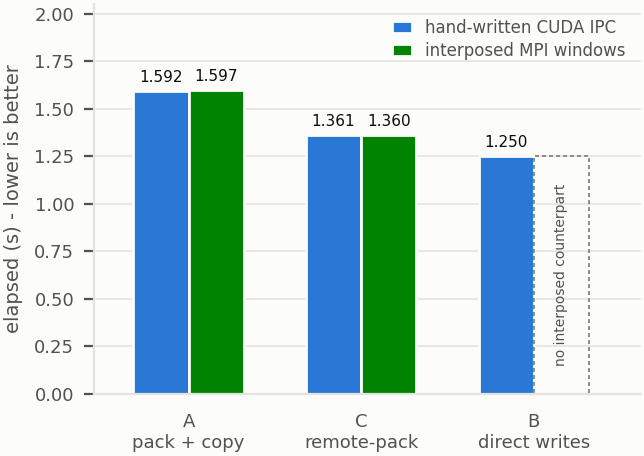
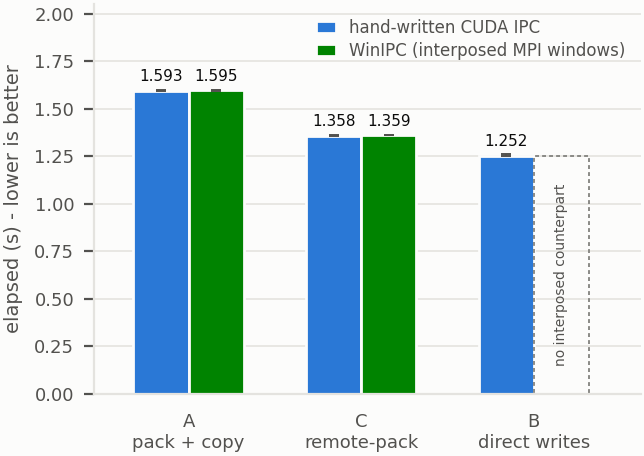
REBRAND: mpiwrap is now WinIPC
Renames the project/mechanism in everything a reader sees: prose, README
structure diagrams, source comments, the interposer's log prefix, and the
figures (lulesh_variants_sxm and lulesh_modes_sxm regenerated; the variant
axis now reads winipc/winipc_rp, and the modes legend names WinIPC, which
it previously did not name at all).

Filenames and build identifiers are deliberately NOT renamed yet. Slurm
freezes a job's script text at submit time, and the 8 queued jobs
(stopsync, transpose, lulesh_lifecycle, 5x lulesh_verify) reference by
name: ~/mpiwrap, scripts/build_mpiwrap.sh, $MPIWRAP_LIB, the mpiwrap /
mpiwrap_rp make targets and the lulesh_mpiwrap* binaries. Renaming any of
them breaks jobs in flight, and renaming IPC_VIA_MPIWRAP would be worse
than a break -- comm_backend.h falls through to comm_ipc.h, so a missed
site would silently build the WinIPC variant as plain ipc and land a wrong
number in a verification run. Left frozen: those, plus libmpiwrap.so,
mpiwrap_ipc.cc, comm_mpiwrap.h, and the mpiwrap/mpiwrap_rp keys in the
results CSVs. Both READMEs carry a note mapping old spelling to new.

The one behavioural change: MPIWRAP_DISABLE_FABRIC becomes
WINIPC_DISABLE_FABRIC, with the old name kept as an alias and run_nvl72.sh
setting both. An unrecognised name here fails silently -- the run keeps the
fabric path on and the fabric-vs-no-fabric comparison is vacuous rather
than visibly broken -- so the alias stays until the NVL72 reruns are done.
[…]

diff --git a/plots/make_lulesh_plots.py b/plots/make_lulesh_plots.py
@@ -14,7 +14,7 @@ rest are carried for provenance and for the paper's paired analysis.
 `rep` indexes the JOB SUBMISSION, not an in-process loop: run_lulesh_verify
 runs each variant once per job, so E1's five submissions give five independent
 runs per variant. `jobid` is carried alongside it so the paper's matched-pair
-residual (mpiwrap - ipc within a job) can be formed explicitly rather than by
+residual (WinIPC - ipc within a job) can be formed explicitly rather than by
 trusting that rep maps 1:1 onto a job -- the builder's --check-pairing asserts
 that it does.
 
@@ -67,6 +67,19 @@ CATEGORY = {  # variant -> plot category
     "ipc": "A", "mpiwrap": "A", "nvshmem": "A",
     "gpumpi": "T", "staged": "T", "shmwin": "W",
 }
+
+# variant key -> label drawn on the figure. The interposed-window backend was
+# renamed mpiwrap -> WinIPC, but the CSV keys, the make targets and the binary
+# names are still `mpiwrap*`: renaming those would break the queued Slurm jobs,
+# whose script text Slurm froze at submit time. So the rename lives here, at the
+# display edge, and the recorded data keeps its original keys. Drop this map
+# once the build-side identifiers are renamed too.
+DISPLAY = {"mpiwrap": "winipc", "mpiwrap_rp": "winipc_rp"}
+
+
+def label(v):
+    return DISPLAY.get(v, v)
+
 
 def load(path=CSV):
     rows = []
@@ -137,7 +150,7 @@ else:
 
 # =============== chart 1: all nine variants ===============
 fig, ax = plt.subplots(figsize=(COL_W, 3.0))
-names   = [v[0] for v in variants][::-1]
+names   = [label(v[0]) for v in variants][::-1]
 times   = [v[2] for v in variants][::-1]
 gains   = [v[3] for v in variants][::-1]
 colors  = [MODE_COLOR[v[1]] for v in variants][::-1]
@@ -169,11 +182,11 @@ fig.tight_layout()
 fig.savefig("plots/lulesh_variants_sxm.png", dpi=200)
 save(fig, "plots/lulesh_variants_sxm.pdf")
 
-# =============== chart 2: the three send modes, ipc vs mpiwrap ===============
+# =============== chart 2: the three send modes, ipc vs WinIPC ===============
 fig, ax = plt.subplots(figsize=(COL_W, 2.45))
 modes      = ["A\npack + copy", "C\nremote-pack", "B\ndirect writes"]
 IPC_V  = ["ipc", "ipc_rp", "direct"]
-WRAP_V = ["mpiwrap", "mpiwrap_rp", None]
+WIN_V = ["mpiwrap", "mpiwrap_rp", None]
 
 
 def bar_value(v):
@@ -192,7 +205,7 @@ def err(v):
 
 
 ipc_times  = [bar_value(v) for v in IPC_V]
-wrap_times = [bar_value(v) for v in WRAP_V[:2]]
+wrap_times = [bar_value(v) for v in WIN_V[:2]]
 
 x = range(3)
 w = 0.32
@@ -205,8 +218,8 @@ for i, v in enumerate(IPC_V):
         ax.errorbar(i - w/2, ipc_times[i], yerr=e, fmt="none", **EBAR)
 b2 = ax.bar([i + w/2 for i in x[:2]], wrap_times, width=w, color=GREEN,
             edgecolor=SURFACE, linewidth=1.0,
-            label="interposed MPI windows")
-for i, v in enumerate(WRAP_V[:2]):
+            label="WinIPC (interposed MPI windows)")
+for i, v in enumerate(WIN_V[:2]):
     e = err(v)
     if e:
         ax.errorbar(i + w/2, wrap_times[i], yerr=e, fmt="none", **EBAR)

diff --git a/mpi-intercept/mpiwrap_ipc.cc b/mpi-intercept/mpiwrap_ipc.cc
@@ -1,11 +1,17 @@
-// mpiwrap_ipc.cc - MPI interception for CUDA IPC
+// mpiwrap_ipc.cc - WinIPC: MPI interception for CUDA IPC
+//
+// (Formerly "mpiwrap". This file name, the built .so and the CMake target keep
+// the old spelling for now -- queued Slurm jobs reference them by name.)
 //
 // Intercepts MPI_Win_create/allocate/shared_query/free to add CUDA IPC support.
 // Use with: LD_PRELOAD=./libmpiwrap.so mpirun ...
 //
-// MPIWRAP_DISABLE_FABRIC=1 forces cross-node windows onto the per-peer
+// WINIPC_DISABLE_FABRIC=1 forces cross-node windows onto the per-peer
 // hybrid-MPI fallback even on fabric-capable (NVL72-class) hardware --
 // useful for an apples-to-apples fabric-vs-no-fabric comparison.
+// MPIWRAP_DISABLE_FABRIC is still honoured as a deprecated alias, so an
+// already-submitted job or a collaborator's script does not silently lose the
+// setting and run WITH fabric when it meant to run without.
 
 #include <cstdio>
 #include <cstdlib>
@@ -15,7 +21,7 @@
 #include <cuda_runtime_api.h>
 #include <cuda.h>
 
-#define LOG(fmt, ...) fprintf(stderr, "[mpiwrap] " fmt "\n", ##__VA_ARGS__)
+#define LOG(fmt, ...) fprintf(stderr, "[winipc] " fmt "\n", ##__VA_ARGS__)
 
 // ============================================================================
 // WINDOW METADATA
@@ -81,7 +87,10 @@ static bool ranks_span_nodes(MPI_Comm comm) {
 static bool fabric_supported() {
     // Lets a benchmark force the per-peer hybrid-MPI path even on hardware
     // that supports fabric handles, e.g. to compare against the fabric path.
-    const char* disable = getenv("MPIWRAP_DISABLE_FABRIC");
+    // MPIWRAP_DISABLE_FABRIC is the pre-rebrand name, still honoured: dropping
+    // it would turn a stale script into a silent fabric-ON run.
+    const char* disable = getenv("WINIPC_DISABLE_FABRIC");
+    if (!disable) disable = getenv("MPIWRAP_DISABLE_FABRIC");
     if (disable && disable[0] == '1') return false;
     if (cuInit(0) != CUDA_SUCCESS) return false;
     int curdev = 0;

diff --git a/LULESH/cuda/src/comm/comm_mpiwrap.h b/LULESH/cuda/src/comm/comm_mpiwrap.h
@@ -1,4 +1,6 @@
-// comm_mpiwrap.h -- CUDA IPC through the mpiwrap interceptor.
+// comm_mpiwrap.h -- CUDA IPC through the WinIPC interceptor (was: mpiwrap;
+// the file name, the .so and the IPC_VIA_MPIWRAP macro keep the old spelling
+// because queued Slurm jobs reference them).
 // The application only speaks portable MPI window code: MPI_Win_allocate
 // (info key cuda_ipc=1) for the device recv buffer + MPI_Win_shared_query
 // per peer.  Vanilla MPI cannot shared_query such a window; libmpiwrap.so
@@ -58,7 +60,7 @@ static inline void commAllocRecv(Domain* d, Index_t comBufSize)
       including cross-node ones, is served by the window -- without it a
       clean run leaves no record of which transport was measured. */
    if (myRank == 0) {
-      printf("mpiwrap: %d of %d peers not IPC-reachable, using MPI "
+      printf("winipc: %d of %d peers not IPC-reachable, using MPI "
              "send/recv fallback for them\n", nFallback,
              (int)d->m_numRanks - 1) ;
    }

diff --git a/scripts/build_lulesh_variance_csv.py b/scripts/build_lulesh_variance_csv.py
@@ -13,7 +13,7 @@ init and window construction. reps are numbered by ascending jobid, so rep 1 is
 the lowest-numbered job.
 
 WHY jobid AND node ARE COLUMNS. The paper forms the matched-pair residual as
-mpiwrap - ipc *within a job*, so job and node effects cancel. Because rep maps
+WinIPC - ipc *within a job*, so job and node effects cancel. Because rep maps
 1:1 onto a submission, pairing by rep is equivalent to pairing within a job --
 but that equivalence should be checkable rather than trusted, so both the jobid
 and the node are carried per row. Pair on jobid if you want to be explicit;
@@ -138,7 +138,7 @@ def report_pairs(rows):
 
     This is the quantity the paper reports. Taking the difference inside one
     job cancels whatever that job saw -- node, co-tenants, thermal state --
-    which two independent marginals (mean mpiwrap vs mean ipc) would not.
+    which two independent marginals (mean WinIPC vs mean ipc) would not.
     """
     idx = {}
     for r in rows:

diff --git a/LULESH/cuda/src/comm/comm_backend.h b/LULESH/cuda/src/comm/comm_backend.h
@@ -41,7 +41,7 @@ extern bool g_commActive ;
    window-based backend can provide. A backend that sets them must ensure
    they sum to no more than its share of setup; a backend that leaves them
    at zero simply reports no breakdown, and only the uniform total is
-   comparable across backends. Currently only comm_mpiwrap.h fills them in. */
+   comparable across backends. Currently only WinIPC (comm_mpiwrap.h) does. */
 extern double g_phaseCommSetupMs ;   /* all backends: whole commAllocRecv */
 extern double g_phaseCommFreeMs ;    /* all backends: whole commTeardown  */
 extern double g_phaseWinAllocMs ;    /* window construction only, or 0    */

diff --git a/LULESH/cuda/src/comm/comm_ipc_packed.h b/LULESH/cuda/src/comm/comm_ipc_packed.h
@@ -4,7 +4,7 @@
 // comm_ipc.h (Mode A/C) and comm_direct.h (Mode B, for the MonoQ path).
 //
 // WHY THE SPLIT EXISTS -- do not merge this back.
-// comm_mpiwrap.h establishes the same d_peerRecv[] mapping through
+// WinIPC (comm_mpiwrap.h) establishes the same d_peerRecv[] mapping through
 // MPI_Win_allocate + MPI_Win_shared_query and never calls these functions.
 // While they lived in comm_ipc_common.h, which comm_mpiwrap.h includes for
 // the shared token/steady-state machinery, they were still textually present

diff --git a/LULESH/cuda/src/lulesh.h b/LULESH/cuda/src/lulesh.h
@@ -306,7 +306,7 @@ typedef Real_t& (Domain::* Domain_member )(Index_t) ;
 #define CACHE_ALIGN_REAL(n) \
    (((n) + (CACHE_COHERENCE_PAD_REAL - 1)) & ~(CACHE_COHERENCE_PAD_REAL-1))
 
-// One halo-exchange backend (staged / gpumpi / shmwin / ipc / mpiwrap /
+// One halo-exchange backend (staged / gpumpi / shmwin / ipc / WinIPC /
 // nvshmem) is selected at compile time; see comm/comm_backend.h.
 #include "comm/comm_backend.h"
 

diff --git a/LULESH/cuda/src/comm/comm_ipc_common.h b/LULESH/cuda/src/comm/comm_ipc_common.h
@@ -1,5 +1,5 @@
 // comm_ipc_common.h -- transfer/unpack machinery shared by the two CUDA-IPC
-// backends (comm_ipc.h and comm_mpiwrap.h).  Both end up with d_peerRecv[r]
+// backends (comm_ipc.h and WinIPC's comm_mpiwrap.h).  Both end up with d_peerRecv[r]
 // = rank r's d_commDataRecv mapped into this process; they differ only in
 // how the mapping is established.
 //

diff --git a/LULESH/cuda/README.md b/LULESH/cuda/README.md
@@ -7,6 +7,14 @@ in one header under `src/comm/`. One binary per variant, all built from
 `src/Makefile` (`make all`), all reproducing the staged baseline's reported
 Final Origin Energy on the full sedov run.
 
+> **Naming.** The interposed-window backend is now called **WinIPC** (formerly
+> *mpiwrap*). Its build identifiers are deliberately not renamed yet — the make
+> targets are still `mpiwrap`/`mpiwrap_rp`, the binaries `lulesh_mpiwrap*`, the
+> header `comm/comm_mpiwrap.h` and the macro `IPC_VIA_MPIWRAP` — because Slurm
+> freezes a job's script text at submit time and queued jobs still name them.
+> Tables below use **WinIPC** for the variant and the old spelling wherever a
+> literal target, binary, file or flag is meant.
+
 ## The six variants
 
 | Variant | Binary | Build flags | Halo data path | LD_PRELOAD |
@@ -15,17 +23,17 @@ Final Origin Energy on the full sedov run.
 | gpumpi | `lulesh_gpumpi` | `COMM_GPUMPI` | device pointers passed straight to CUDA-aware MPI | no |
 | shmwin | `lulesh_shmwin` | `COMM_SHMWIN` | GPU → peer's slice of an `MPI_Win_allocate_shared` host window → GPU; `Win_sync` + barriers | no |
 | ipc | `lulesh_ipc` | `COMM_IPC` | one D2D copy into the peer GPU's recv buffer via explicit `cudaIpcOpenMemHandle` mapping | no |
-| mpiwrap | `lulesh_mpiwrap` | `COMM_IPC IPC_VIA_MPIWRAP` | same data path as ipc, but the app only writes portable `MPI_Win_allocate` + `MPI_Win_shared_query`; the LD_PRELOADed `libmpiwrap.so` interposer supplies CUDA IPC (single node) or CUDA fabric handles (multi-node NVLink) underneath | **yes** |
+| WinIPC | `lulesh_mpiwrap` | `COMM_IPC IPC_VIA_MPIWRAP` | same data path as ipc, but the app only writes portable `MPI_Win_allocate` + `MPI_Win_shared_query`; the LD_PRELOADed `libmpiwrap.so` interposer supplies CUDA IPC (single node) or CUDA fabric handles (multi-node NVLink) underneath | **yes** |
 | nvshmem | `lulesh_nvshmem` | `COMM_NVSHMEM` | `nvshmemx_putmem_on_stream` into symmetric-heap recv buffers | no |
 
-The one-sided variants (shmwin / ipc / mpiwrap / nvshmem) post no receives:
+The one-sided variants (shmwin / ipc / WinIPC / nvshmem) post no receives:
 the sender computes the destination offset inside the *receiver's* recv
 buffer with `shmRecvOffset()` (which replays `CommRecv`'s message-ordering
 bookkeeping for the receiver's boundary booleans) and writes the data there
 directly. The init-time nodalMass exchange stays host-packed plain MPI in
 every variant; one-sided backends activate afterwards (`g_commActive`).
 
-**Synchronization (IPC/mpiwrap family)** is per-neighbor, not global:
+**Synchronization (IPC/WinIPC family)** is per-neighbor, not global:
 zero-byte token messages mirror the original send/recv matching. Receivers
 post zero-byte Irecvs in the same `recvRequest` slots real messages used —
 so the unpack routines' per-message `MPI_Wait`s become genuine arrival
@@ -74,7 +82,7 @@ passes device pointers to `MPI_Isend`/`Irecv`/`Send`/`Recv`, so it
 requires a working CUDA-aware MPI; it is dead code (never exercised) on
 any hardware tested so far, since every peer has been reachable.
 
-## The three send modes (IPC/mpiwrap family)
+## The three send modes (IPC/WinIPC family)
 
 | Mode | Binaries | Build flags | What happens per message |
 |------|----------|-------------|--------------------------|
@@ -83,7 +91,7 @@ any hardware tested so far, since every peer has been reachable.
 | B — direct | `lulesh_direct` | `COMM_IPC COMM_DIRECT` | **no pack, no unpack**: one fused kernel per message reads the sender's strided boundary values and writes them into the receiver's field arrays at the mirrored halo positions |
 
 Mode B details:
-- **Framing:** `lulesh_direct` has **no mpiwrap counterpart**, so it is
+- **Framing:** `lulesh_direct` has **no WinIPC counterpart**, so it is
   evidence for the *peer-write capability ceiling* — what a general peer
   pointer lets a kernel do that point-to-point MPI cannot express — and
   **not** a measurement of interposed performance. Only the matched A and C
@@ -106,7 +114,7 @@ Mode B details:
 
 ## Portability: multi-node NVLink (GB200/GH200 NVL-class)
 
-The mpiwrap abstraction is what makes rack-scale NVLink reachable without
+The WinIPC abstraction is what makes rack-scale NVLink reachable without
 touching the application: `lulesh_mpiwrap` speaks only `MPI_Win_allocate`
 + `MPI_Win_shared_query`, and the interposer picks the transport at
 runtime. On a single node it exchanges legacy CUDA-IPC handles (validated
@@ -176,8 +184,8 @@ decimals, so it cannot resolve these gaps):
 
 | Mode | hand-written | interposed | delta |
 |------|-------------:|-----------:|------:|
-| A — pack + copy   | `ipc` 1.59228 s | `mpiwrap` 1.59721 s | **+0.310%** |
-| C — remote-pack   | `ipc_rp` 1.36079 s | `mpiwrap_rp` 1.36011 s | **−0.050%** |
+| A — pack + copy   | `ipc` 1.59228 s | `winipc` 1.59721 s | **+0.310%** |
+| C — remote-pack   | `ipc_rp` 1.36079 s | `winipc_rp` 1.36011 s | **−0.050%** |
 
 Note mode C's interposed variant is marginally *faster*, which is why
 these should be described as agreeing within 0.4% rather than as
@@ -218,9 +226,9 @@ If a paper or table rescales this column, label it **Gzone/s**.
 |---------|------|------------:|--------:|----------:|----------:|
 | direct     | B | 1.25 | 0.397 | 1,833,814 | +56.8% |
 | ipc_rp     | C | 1.36 | 0.433 | 1,684,837 | +44.1% |
-| mpiwrap_rp | C | 1.36 | 0.433 | 1,685,677 | +44.1% |
+| winipc_rp  | C | 1.36 | 0.433 | 1,685,677 | +44.1% |
 | ipc        | A | 1.59 | 0.506 | 1,439,888 | +23.3% |
-| mpiwrap    | A | 1.60 | 0.509 | 1,435,439 | +22.5% |
+| winipc     | A | 1.60 | 0.509 | 1,435,439 | +22.5% |
 | nvshmem    | A | 1.74 | 0.553 | 1,315,001 | +12.6% |
 | gpumpi     | — | 1.83 | 0.582 | 1,250,391 |  +7.1% |
 | staged     | — | 1.96 | 0.623 | 1,169,930 | baseline |
@@ -237,7 +245,7 @@ previously reported 1.70× *faster* than staged, it is in fact ~5%
 
 ![LULESH halo-exchange variants](../../plots/lulesh_variants_sxm.png)
 
-![Send modes: ipc vs mpiwrap](../../plots/lulesh_modes_sxm.png)
+![Send modes: ipc vs WinIPC](../../plots/lulesh_modes_sxm.png)
 
 Takeaways:
 
@@ -441,7 +449,7 @@ LULESH/
 cd LULESH/cuda/src
 make all                # or any single target, e.g. make mpiwrap_rp
 
-# mpiwrap flavors need the interposer at runtime; everything else runs plain
+# WinIPC flavors need the interposer at runtime; everything else runs plain
 MPIWRAP=~/mpiwrap/mpi-intercept/libmpiwrap.so
 mpirun -np 8 ./lulesh_staged -s 45
 LD_PRELOAD=$MPIWRAP mpirun -np 8 ./lulesh_mpiwrap -s 45

diff --git a/README.md b/README.md
@@ -2,6 +2,17 @@
 
 Benchmarking CUDA IPC against MPI and NVSHMEM for multi-GPU communication on NVIDIA H200 GPUs (NVLink).
 
+> **Naming.** The MPI-window interposer and its halo-exchange backend are now
+> called **WinIPC**; they were previously called *mpiwrap*. The rename is
+> complete in prose, figures and comments. It is **not** yet applied to
+> filenames or build identifiers — `libmpiwrap.so`, `mpi-intercept/mpiwrap_ipc.cc`,
+> `LULESH/cuda/src/comm/comm_mpiwrap.h`, `scripts/build_mpiwrap.sh`, the
+> `mpiwrap`/`mpiwrap_rp` make targets, the `lulesh_mpiwrap*` binaries, the
+> `IPC_VIA_MPIWRAP` macro and the `$MPIWRAP_LIB` variable all keep their old
+> spelling, because Slurm freezes a job's script text at submit time and queued
+> jobs still reference them. Read `mpiwrap` as WinIPC wherever it appears as an
+> identifier.
+
 ## Structure
 
 ```
@@ -22,7 +33,7 @@ Benchmarking CUDA IPC against MPI and NVSHMEM for multi-GPU communication on NVI
 │   ├── run_lulesh_verify.sbatch       # all 9 binaries, full run, energy cross-check
 │   └── omp_4.0/ openacc/ stdpar/      # unmodified upstream LULESH variants
 │
-├── mpi-intercept/                  # MPI interposer library for transparent CUDA IPC
+├── mpi-intercept/                  # WinIPC: MPI interposer for transparent CUDA IPC
 │   ├── mpiwrap_ipc.cc                 # Intercepts MPI_Win_create/allocate/shared_query/free;
 │   │                                  #   CUDA IPC on-node, CUDA fabric handles across NVLink nodes
 │   ├── test_ipc_win.cu                # Standalone interposer sanity check (see root CMakeLists.txt)
@@ -33,7 +44,7 @@ Benchmarking CUDA IPC against MPI and NVSHMEM for multi-GPU communication on NVI
 │   ├── transpose_benchmark_ipc_nvshmem.png
 │   ├── transpose_stencil_comparison.png
 │   ├── lulesh_variants_sxm.png        # LULESH: all defensible variants
-│   └── lulesh_modes_sxm.png           # LULESH: send modes, ipc vs mpiwrap
+│   └── lulesh_modes_sxm.png           # LULESH: send modes, ipc vs WinIPC
 │
 ├── results/                        # Tabulated benchmark data
 │   ├── transpose_results.md
@@ -67,7 +78,7 @@ mix transports inside one kernel launch, so it aborts with a clear
 message if any peer is unreachable, instead.
 
 Known limitation: the fallback assumes IPC reachability is *symmetric*
-per GPU pair, and (like the rest of the IPC/mpiwrap family) it requires
+per GPU pair, and (like the rest of the IPC/WinIPC family) it requires
 a working CUDA-aware MPI to actually send the fallback messages — see
 [LULESH/cuda/README.md](LULESH/cuda/README.md#the-six-variants) for the
 full explanation.
@@ -75,8 +86,8 @@ full explanation.
 ## LULESH
 
 `LULESH/cuda` is LLNL's CUDA LULESH with the halo exchange refactored into
-six pluggable backends (staged / gpumpi / shmwin / ipc / mpiwrap / nvshmem)
-plus three send modes for the IPC/mpiwrap family (pack+copy, remote-pack,
+six pluggable backends (staged / gpumpi / shmwin / ipc / WinIPC / nvshmem)
+plus three send modes for the IPC/WinIPC family (pack+copy, remote-pack,
 direct field writes). One binary per variant; all reproduce the staged
 baseline's reported Final Origin Energy on the full sedov run. See
 [LULESH/cuda/README.md](LULESH/cuda/README.md) for the variant/mode tables,
@@ -134,7 +145,7 @@ On a multi-node NVLink system the interposer logs `fabric window: N ranks
 ...` when the CUDA fabric-handle path (requires the IMEX daemon) is active;
 `N of M peers not IPC-reachable` means it degraded to per-peer hybrid
 IPC+MPI instead. transpose and stencil use `MPI_Win_allocate`, so their IPC
-modes ride the same interposer transports as LULESH's mpiwrap variants.
+modes ride the same interposer transports as LULESH's WinIPC variants.
 The Makefile instructions below remain valid for per-benchmark builds.
 
 ### Build the MPI interposer library

diff --git a/mpi-intercept/README.md b/mpi-intercept/README.md
@@ -1,11 +1,20 @@
-# MPI Intercept Library
+# WinIPC — MPI Intercept Library
 
 Intercepts `MPI_Win_create`, `MPI_Win_shared_query`, and `MPI_Win_free` to transparently add CUDA IPC support. Existing MPI programs get GPU-direct communication without code changes.
+
+> Formerly *mpiwrap*. The source file (`mpiwrap_ipc.cc`), the built library
+> (`libmpiwrap.so`) and the CMake target (`mpiwrap`) keep their old names for
+> now, because queued Slurm jobs reference them by name — Slurm freezes a job's
+> script text at submit time.
 
 ## Usage
 ```bash
 LD_PRELOAD=./libmpiwrap.so mpirun -np 4 ./your_mpi_program
 ```
+
+`WINIPC_DISABLE_FABRIC=1` forces cross-node windows onto the per-peer hybrid-MPI
+fallback even on fabric-capable (NVL72-class) hardware. `MPIWRAP_DISABLE_FABRIC`
+is honoured as a deprecated alias.
 
 ## Build
 ```bash
